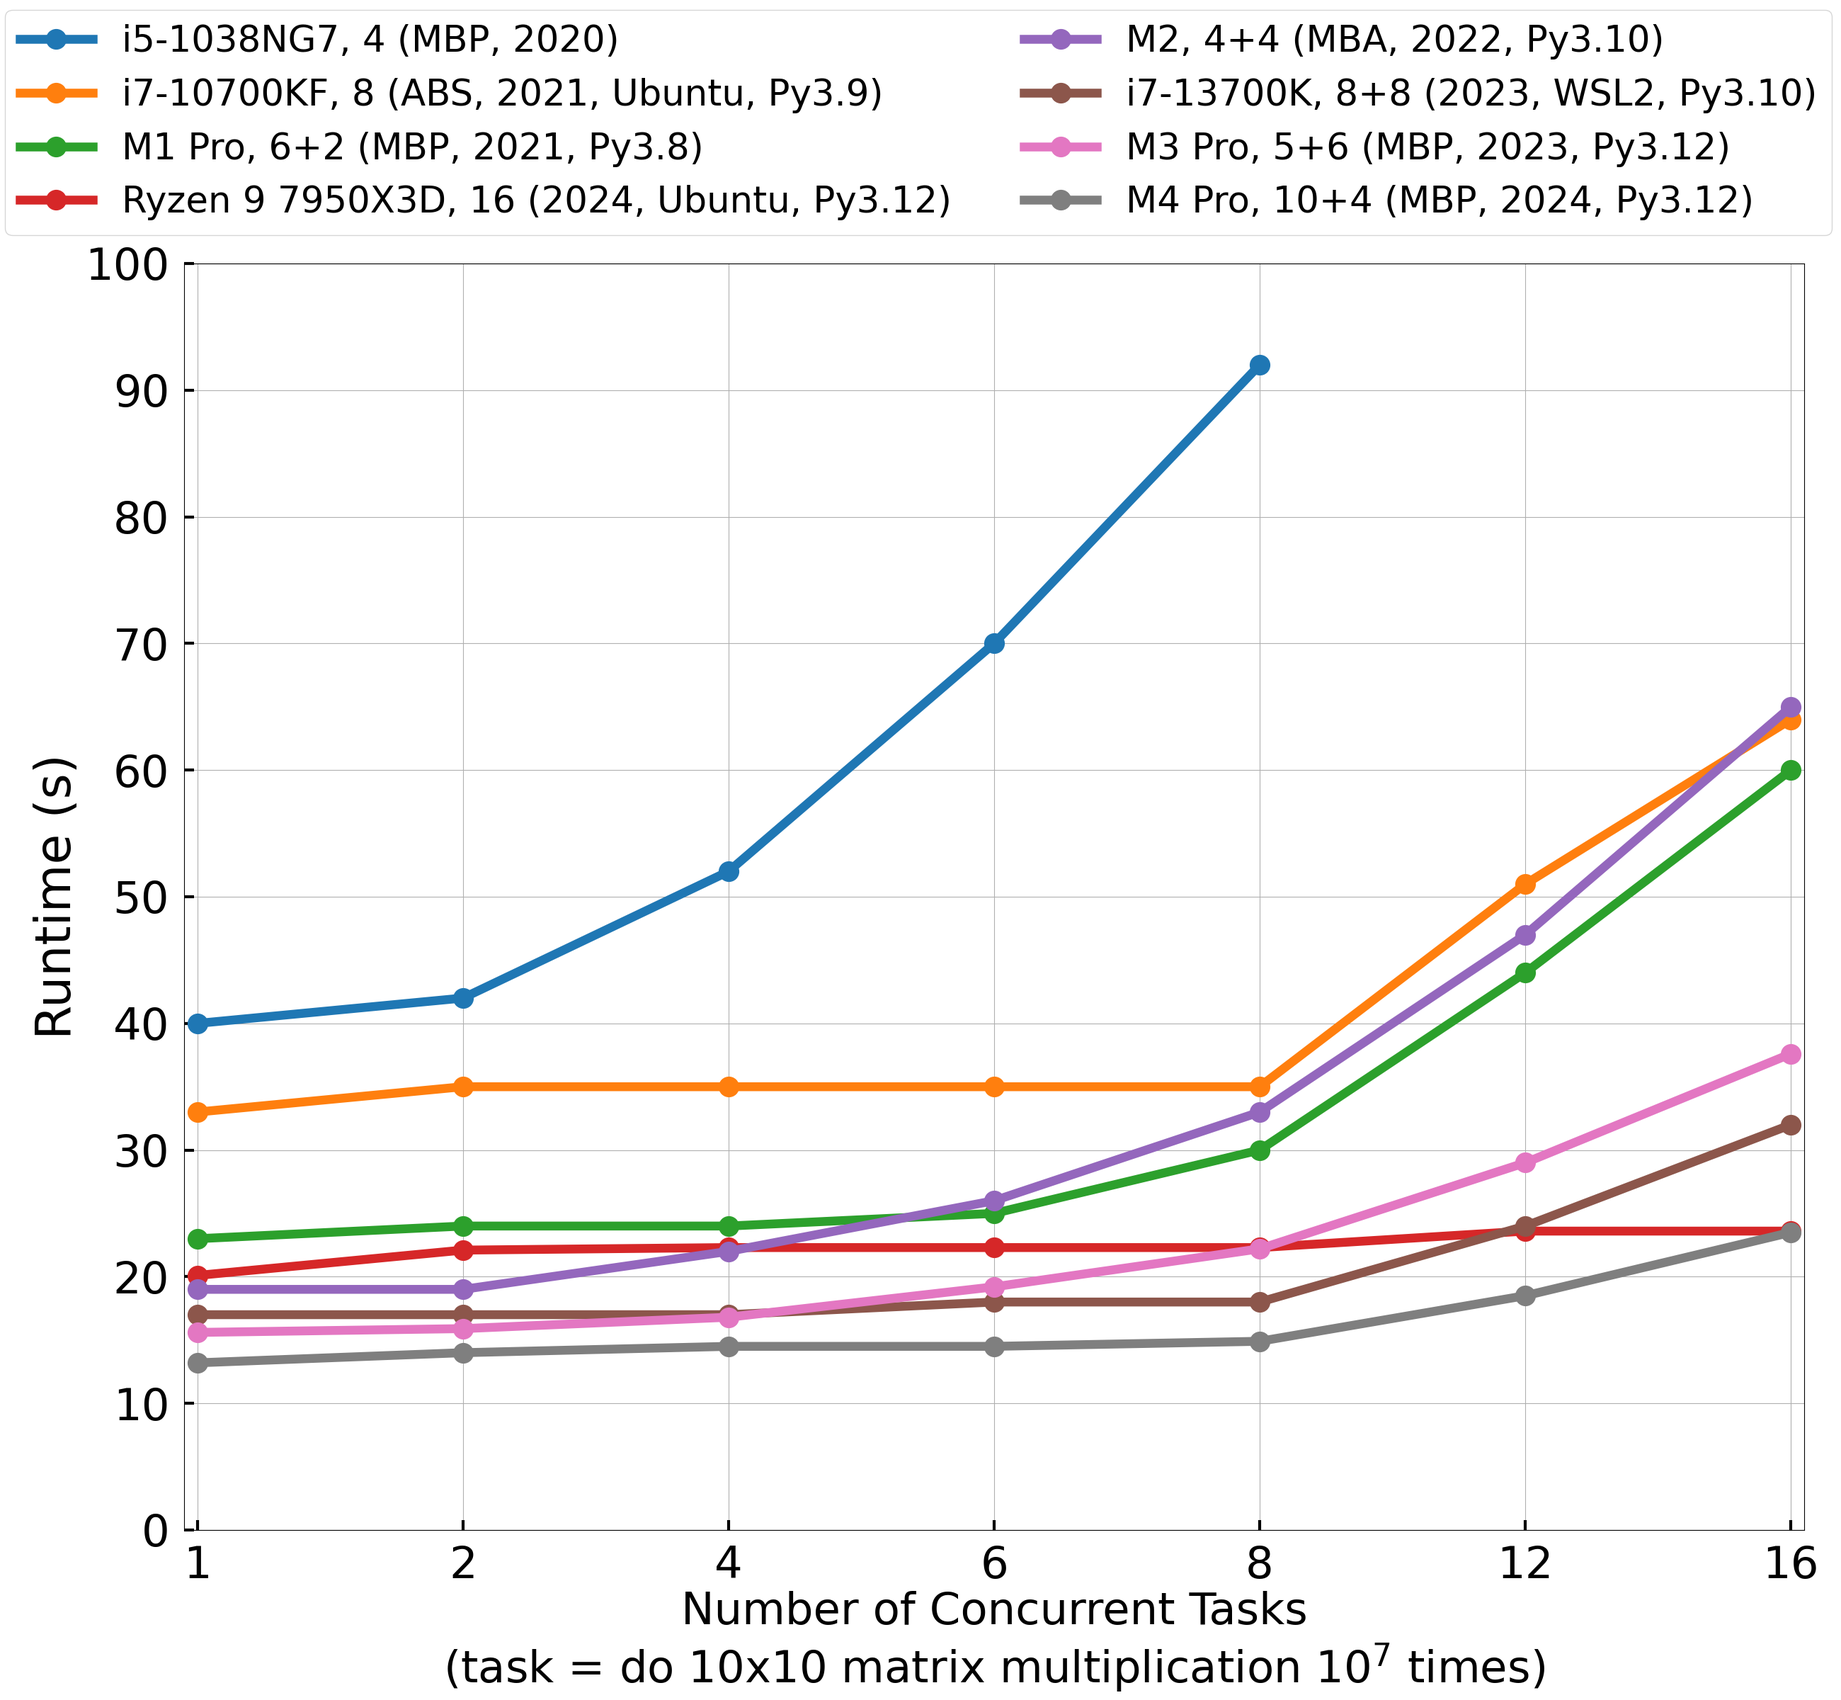
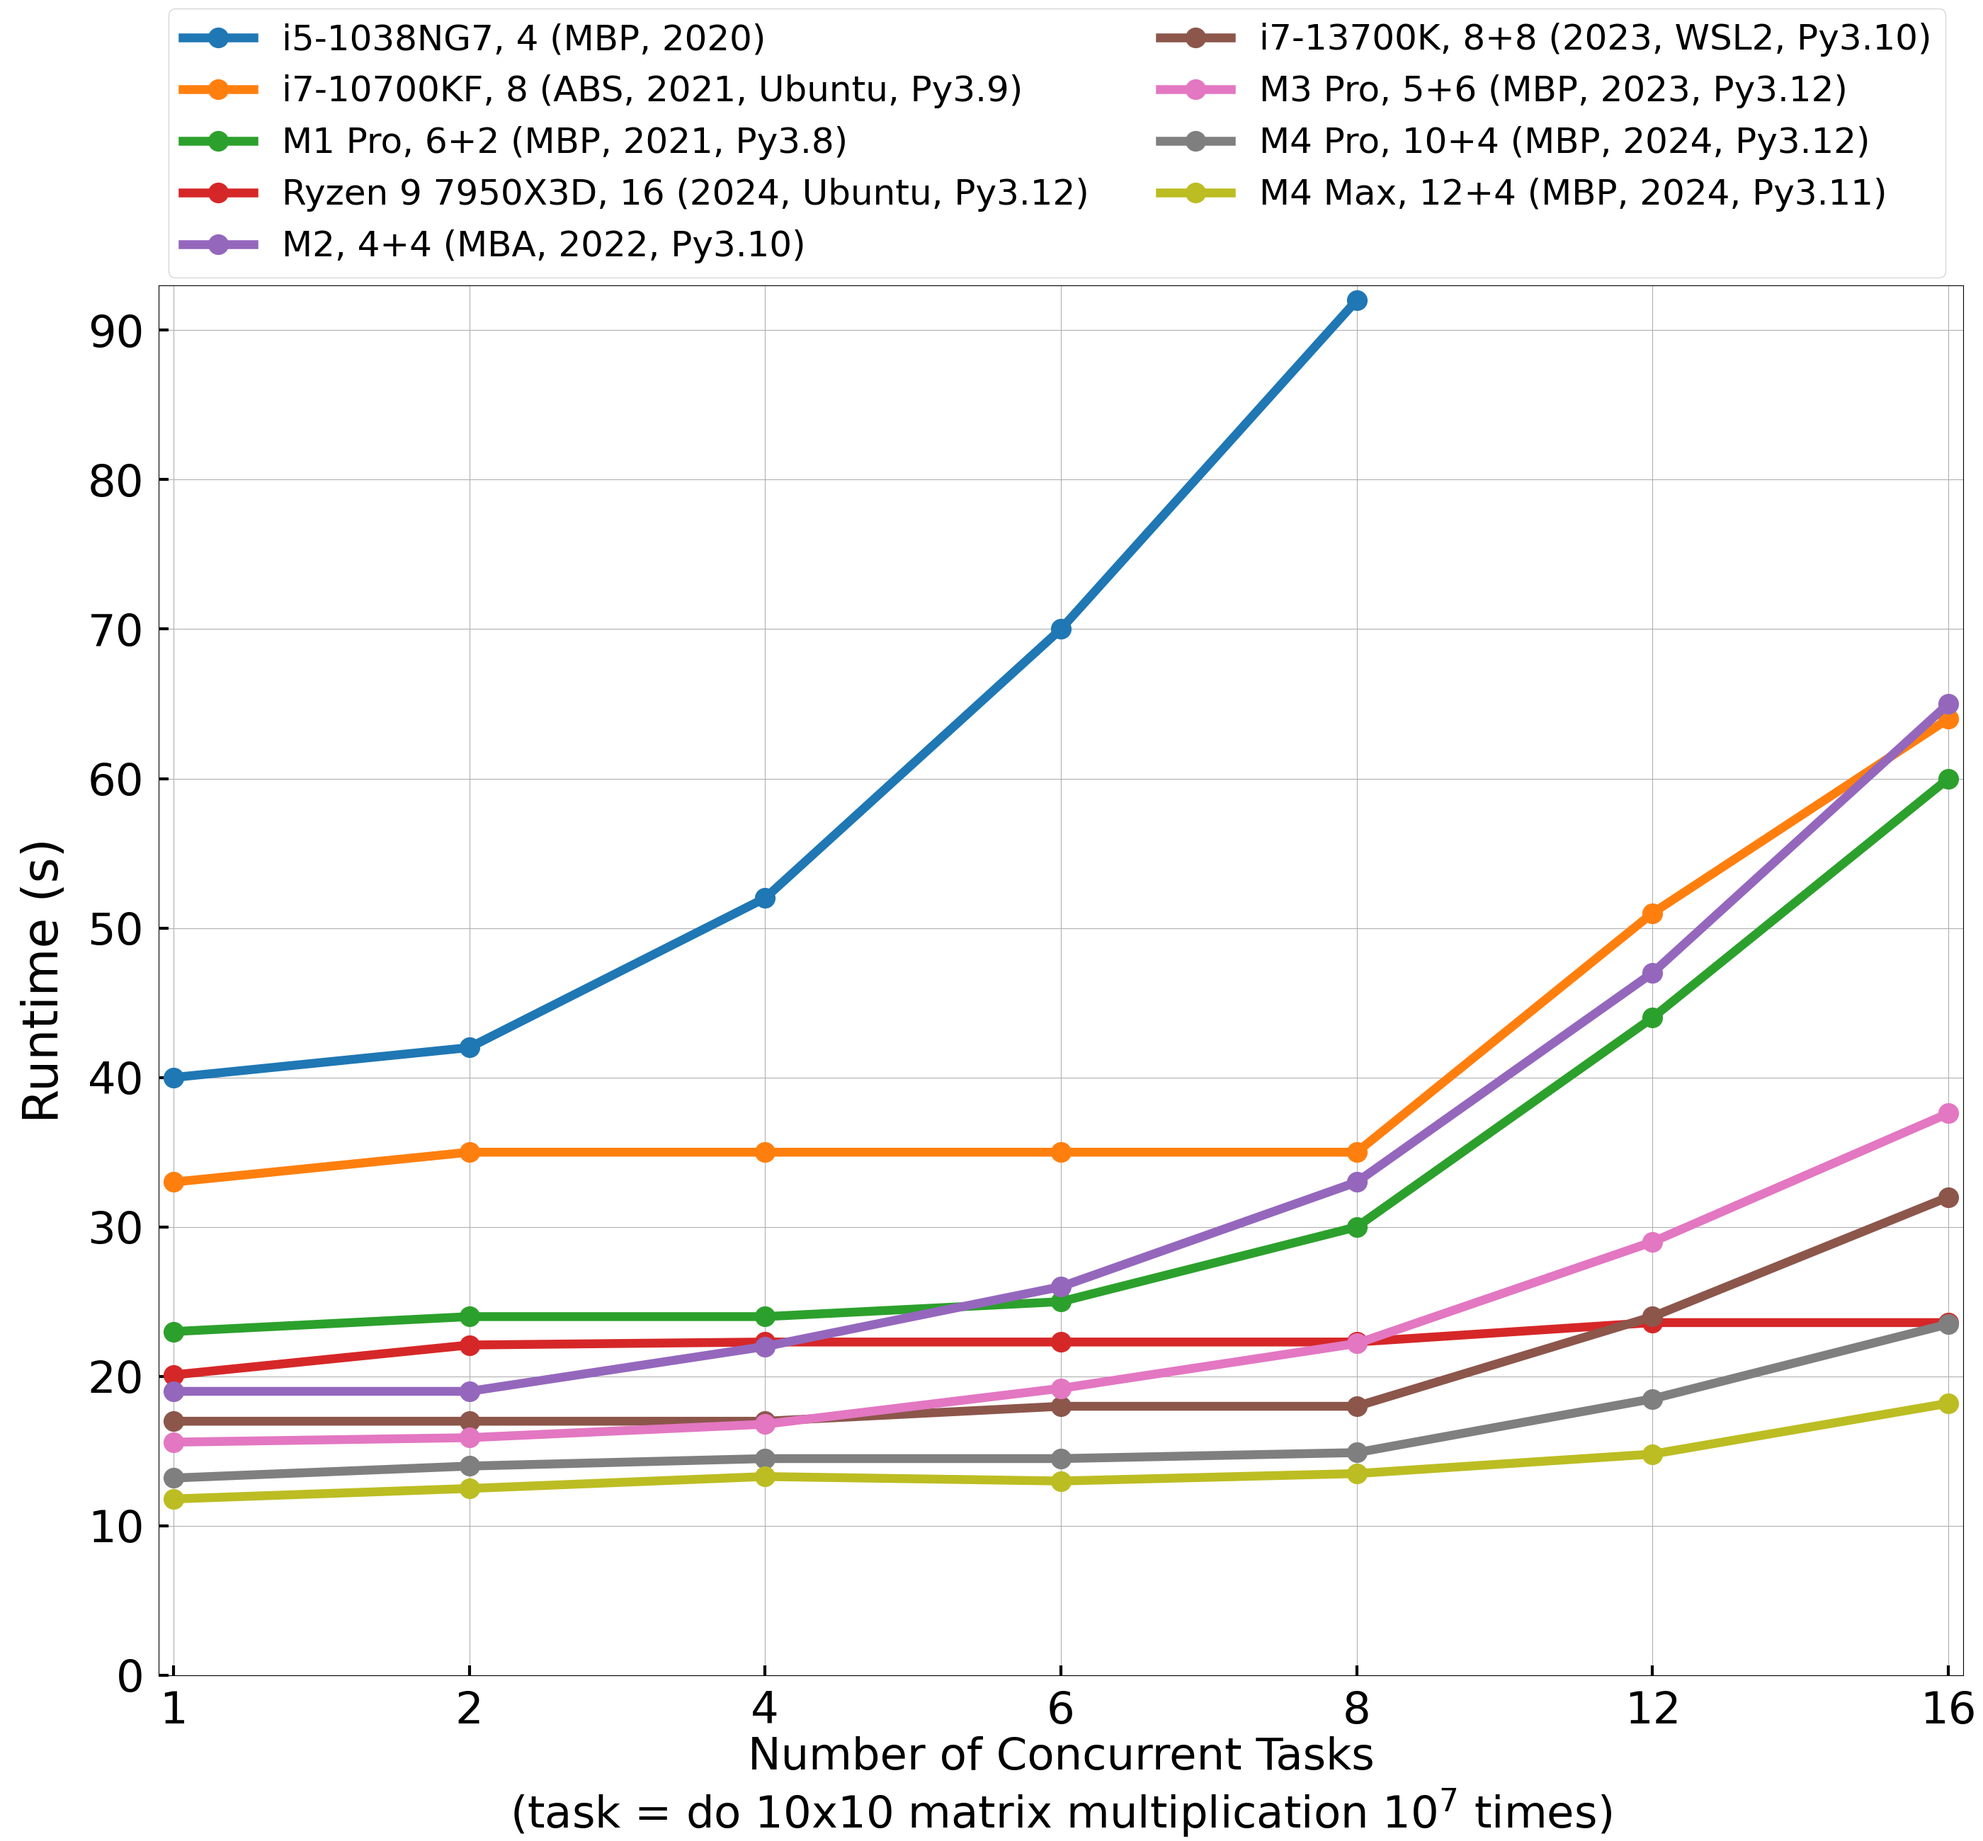
add M4 Max to the plot

diff --git a/plot.py b/plot.py
@@ -11,12 +11,12 @@ def plot():
     y6 = [15.6, 15.9, 16.8, 19.2, 22.2, 29.0, 37.6]  # M3 Pro (6 + 5)
     y7 = [20.1, 22.1, 22.3, 22.3, 22.3, 23.6, 23.6]  # Ryzen 9 7950X3D (16)
     y8 = [13.2, 14.0, 14.5, 14.5, 14.9, 18.5, 23.5]  # M4 Pro (10 + 4)
-
+    y9 = [11.8, 12.5, 13.3, 13.0, 13.5, 14.8, 18.2]  # M4 MAx (12 + 4)
 
     plt.rcParams['font.size'] = 45
     plt.rcParams['lines.linewidth'] = 9
-    fig, ax = plt.subplots(1, 1, figsize=(26, 24))
-    fig.subplots_adjust(left=0.1, right=0.98, top=0.845, bottom=0.1)
+    fig, ax = plt.subplots(1, 1, figsize=(28, 26))
+    fig.subplots_adjust(left=0.08, right=0.99, top=0.845, bottom=0.09)
     ax.plot(np.arange(len(y1)), y1, marker='o', markersize=20, label='i5-1038NG7, 4 (MBP, 2020)')
     ax.plot(np.arange(len(y2)), y2, marker='o', markersize=20, label='i7-10700KF, 8 (ABS, 2021, Ubuntu, Py3.9)')
     ax.plot(np.arange(len(y3)), y3, marker='o', markersize=20, label='M1 Pro, 6+2 (MBP, 2021, Py3.8)')
@@ -25,15 +25,16 @@ def plot():
     ax.plot(np.arange(len(y5)), y5, marker='o', markersize=20, label='i7-13700K, 8+8 (2023, WSL2, Py3.10)')
     ax.plot(np.arange(len(y6)), y6, marker='o', markersize=20, label='M3 Pro, 5+6 (MBP, 2023, Py3.12)')
     ax.plot(np.arange(len(y8)), y8, marker='o', markersize=20, label='M4 Pro, 10+4 (MBP, 2024, Py3.12)')
-    fig.legend(ncol=2, fontsize=37, bbox_to_anchor=(1.005, 1.005))
+    ax.plot(np.arange(len(y9)), y9, marker='o', markersize=20, label='M4 Max, 12+4 (MBP, 2024, Py3.11)')
+    fig.legend(ncol=2, fontsize=36, bbox_to_anchor=(0.99, 1.005))
     ax.grid()
     ax.set_xlim([-0.05, 6.05])
     ax.set_xticks(np.arange(len(X)))
     ax.set_xticklabels([str(x) for x in X])
     ax.set_xlabel('Number of Concurrent Tasks\n(task = do 10x10 matrix multiplication $10^7$ times)')
-    ax.set_ylabel('Runtime (s)', fontsize=50)
-    ax.set_ylim([0, 100])
-    y_ticks = list(range(0, 110, 10))
+    ax.set_ylabel('Runtime (s)', fontsize=50, labelpad=20)
+    ax.set_ylim([0, 93])
+    y_ticks = list(range(0, 100, 10))
     ax.set_yticks(y_ticks)
     ax.tick_params(axis='x', direction='in', length=10, width=3, pad=15)
     ax.tick_params(axis='y', direction='in', length=10, width=3, pad=15)

diff --git a/README.md b/README.md
@@ -27,8 +27,7 @@ The difference is larger than I expected since my benchmark's bottleneck is runn
   </picture>
 </p>
 
-CPU performance is improving year by year. Currently, the best CPU tested is the M4 Pro (10+4), the grey line in the plot.
-
+CPU performance is improving year by year. Currently, the best CPU tested is the M4 Max (12+4).
 The complete raw data is [here](results). The oldest data point is from a MacBook Pro (Retina, 15-inch, Mid 2012).
 
 # How to Contribute
